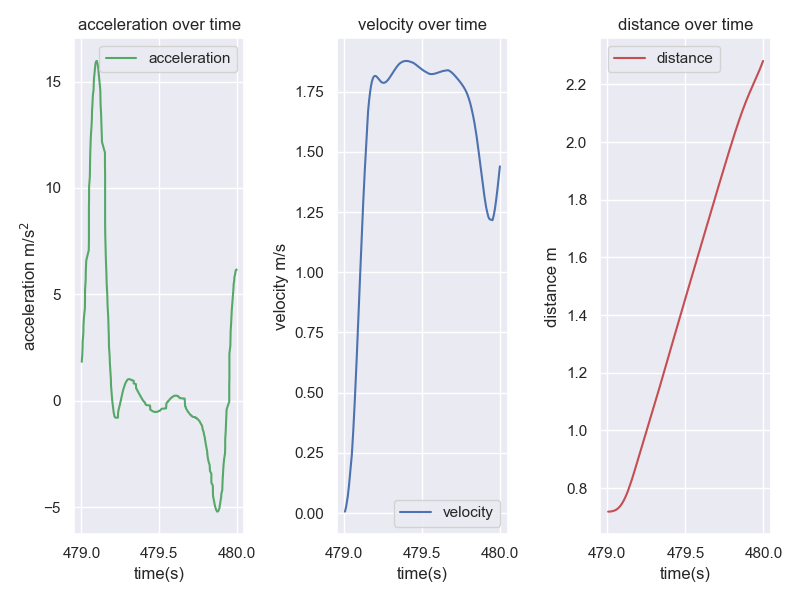
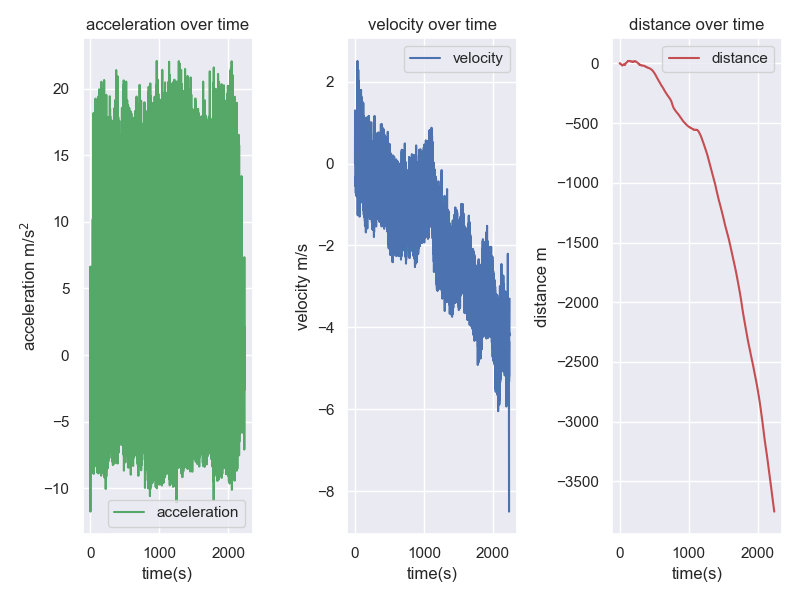
last commit?

diff --git a/Python/big_scale_velocity.py b/Python/big_scale_velocity.py
@@ -31,27 +31,19 @@ def main(in_directory):
     x_acceleration['acceleration'] = x_acceleration['g-force'].multiply(9.81)
     
     #code for limiting time window when experimenting
-    # x_acceleration = x_acceleration[x_acceleration['time']>60*1]
-    # endtime = x_acceleration['time'].max()
-    x_acceleration = x_acceleration[x_acceleration['time']>479]
-    x_acceleration = x_acceleration[x_acceleration['time']<480]
+
+    # x_acceleration = x_acceleration[x_acceleration['time']>479]
+    # x_acceleration = x_acceleration[x_acceleration['time']<480]
    
     #this time i need to calculate the rolling mean with 
     mean = x_acceleration
     mean = mean.set_index('time')
-    #Ended up choosing triangle filter because works nicely and we know our data is slightly skewed but I believe close numbers represent avg
-    #better than the numbers further away
-    # hope is to reduce outliers like standing from habing influence on data
-
-    # mean = mean.rolling(math.ceil((Freq)),win_type='triang',closed='both',center=True).mean() #chose freq for window cause figure it is around 1 to 2 seconds
-    mean = mean.rolling(math.ceil((1))).mean()
+    mean = mean.rolling(math.ceil((Freq))).mean()
     mean = mean.reset_index()
-    print(mean)
+    x_acceleration['acceleration'] = x_acceleration['acceleration'] - mean['acceleration'] #comment this out to see initial issues
+    x_acceleration = x_acceleration.dropna()
     print(x_acceleration)
-    # x_acceleration['acceleration'] = x_acceleration['acceleration'] - mean['acceleration'] #comment this out to see initial issues
-    print(x_acceleration)
-    # x_acceleration = x_acceleration.dropna()
-    # print(x_acceleration)
+    
     # #This Section used to look at differences in mean adjustment 
     # plt.plot(x_acceleration['time'],x_acceleration['acceleration'])
     # mean = mean.dropna()

diff --git a/Python/KevinVelocity.py b/Python/KevinVelocity.py
@@ -17,7 +17,7 @@ def main(in_directory):
     # print(data)
     #give columns variable names
     time = data['time']
-    x = data['gFx']
+    x = data['gFx'] * -1
     print(data)
     # print(x)
     # total = data['']
@@ -32,8 +32,8 @@ def main(in_directory):
 
     #Noticed that if window is too large method wont work so this limits window and correct for
     x_acceleration = pd.DataFrame({'time':time,'g-force':filtered_x})
-    x_acceleration = x_acceleration[x_acceleration['time']>488]
-    x_acceleration = x_acceleration[x_acceleration['time']<490]
+    x_acceleration = x_acceleration[x_acceleration['time']>470]
+    x_acceleration = x_acceleration[x_acceleration['time']<480]
     x_acceleration['acceleration'] = x_acceleration['g-force'].multiply(9.81)
     x_acceleration['acceleration'] = x_acceleration['acceleration']-x_acceleration['acceleration'].mean()
 
